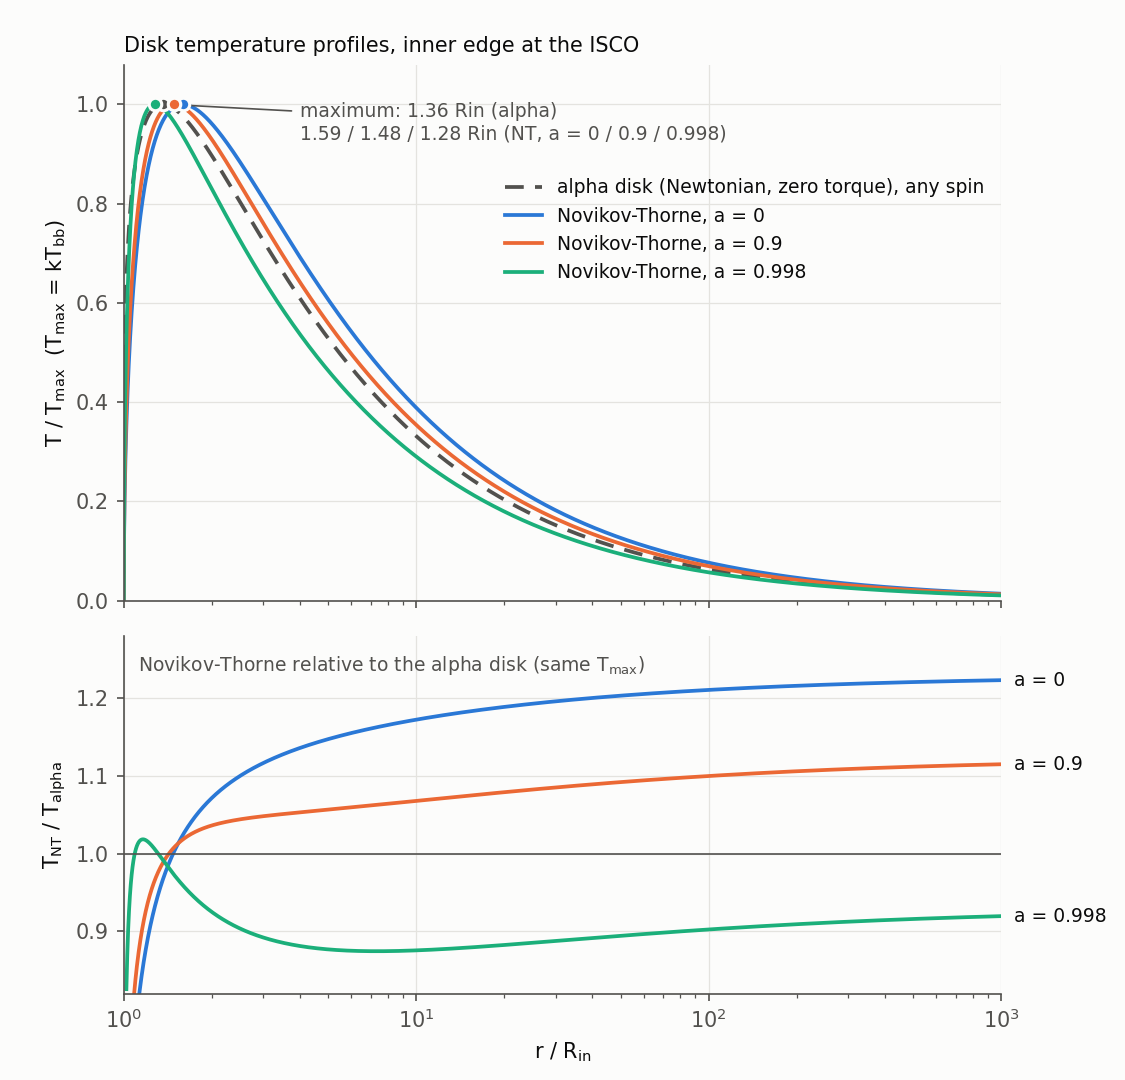
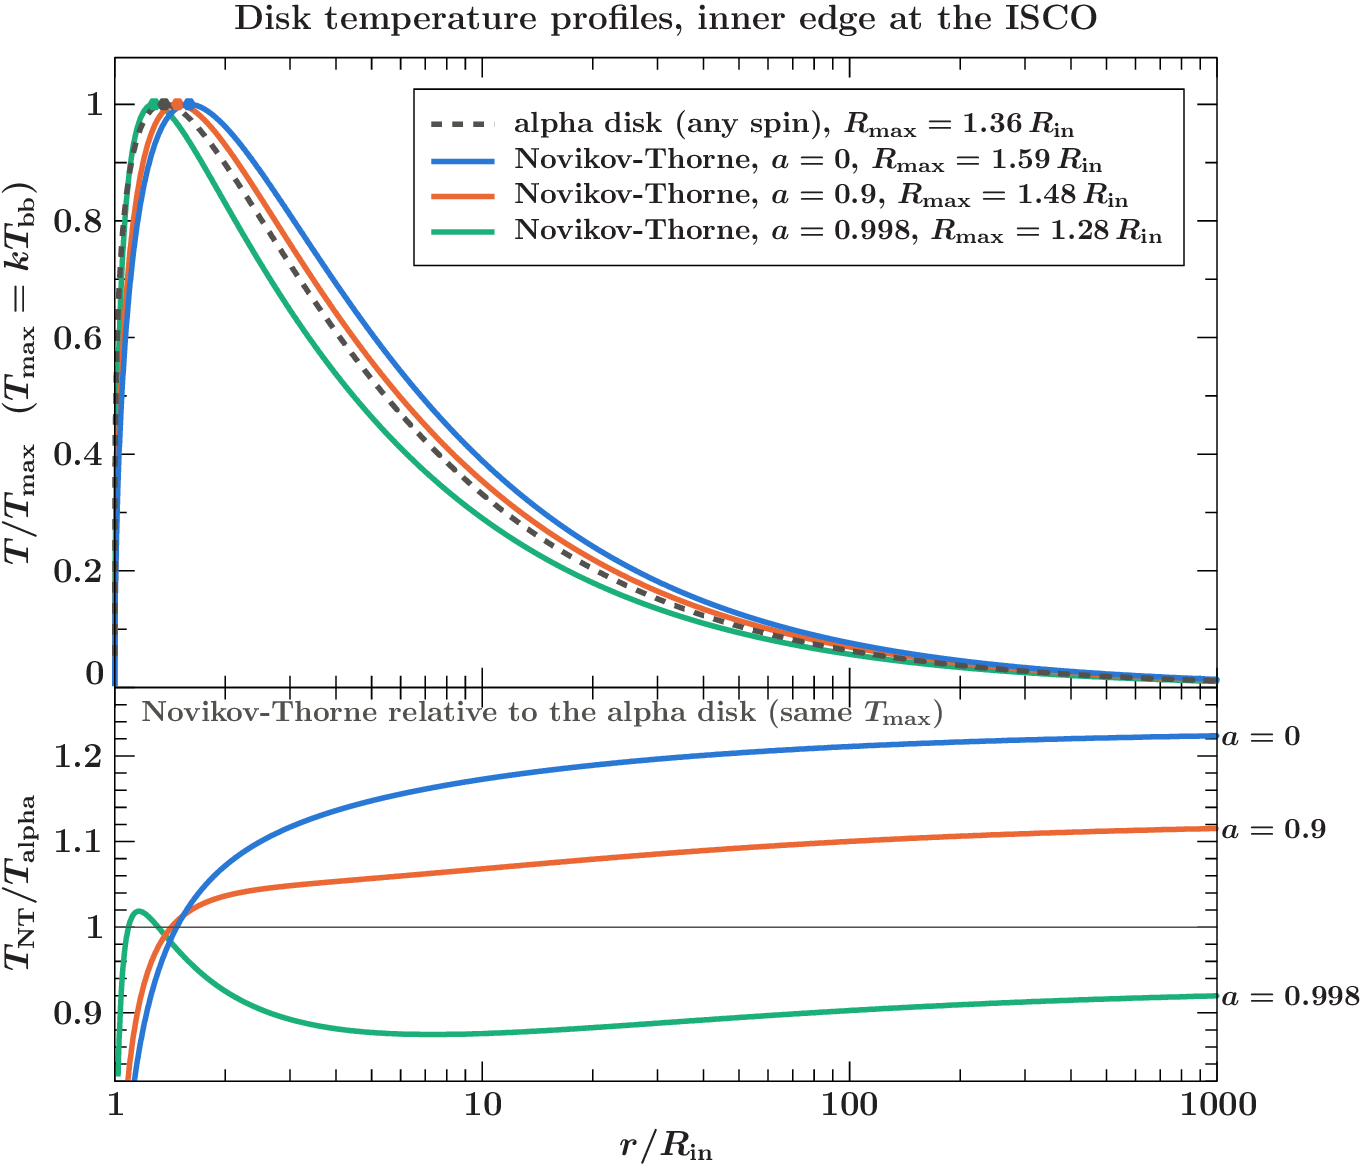
Update temperature profile plotting (to SLang)consistency, update related documentation and image.

diff --git a/doc/returnrad_disk_emission.md b/doc/returnrad_disk_emission.md
@@ -92,7 +92,7 @@ The temperature is \f$T(r) = kT_\mathrm{bb}\, \left(F(r) / F(R_\mathrm{max})\rig
   \f$a = 0\f$ at large radii) and cooler for high spin (by 8-13% for \f$a = 0.998\f$).
 
 The figure compares the Novikov-Thorne profile with the alpha disk (created with
-`test/manual/disk_temperature_profile/plot_temperature_profiles.py`, which uses the same equations as the code):
+`test/manual/disk_temperature_profile/plot_temperature_profiles.sl`, which uses the same equations as the code):
 
 \image html disk_temperature_profiles.png "Temperature profiles normalized to the maximal temperature, for an inner edge
 at the ISCO (top), and the ratio of the Novikov-Thorne profile to the alpha disk (bottom)."
